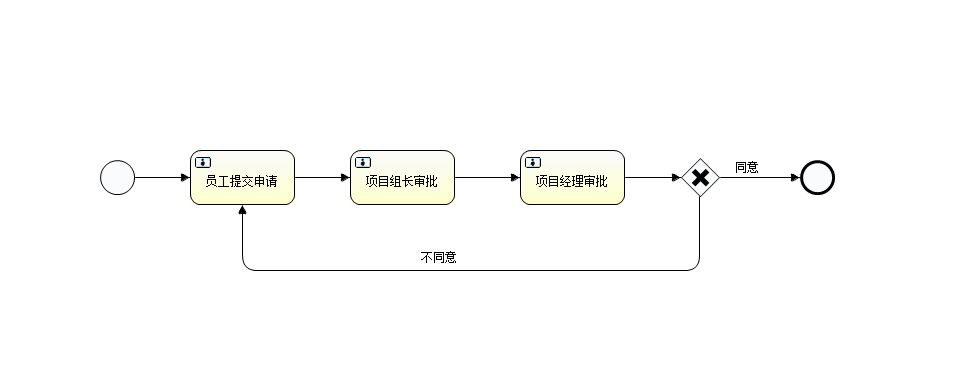
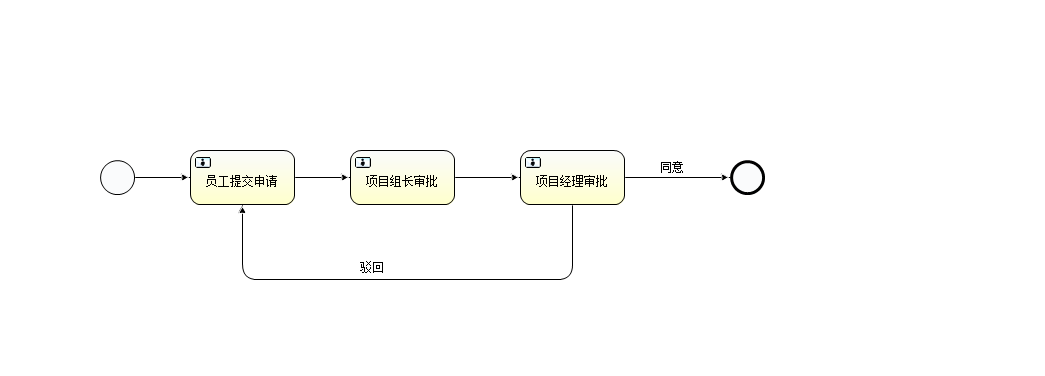
新增流程建模，流程建模引入表达式分支判断

Changed region(s): [[0.0925, 0.3803, 0.8633, 0.5851], [0.2467, 0.6436, 0.7091, 0.7314]]

diff --git a/src/cn/songzx/helloworld/oabiz/wf/test/TestOABizWFService.java b/src/cn/songzx/helloworld/oabiz/wf/test/TestOABizWFService.java
@@ -97,7 +97,7 @@ public class TestOABizWFService {
 				System.out.println("★☆★☆★☆★☆★☆★☆★☆★☆★☆★☆★☆★☆【" + Thread.currentThread().getName() + "】★☆★☆★☆★☆★☆★☆★☆★☆★☆★☆★☆★☆");
 			}
 		};
-		int runnerCount = 200;
+		int runnerCount = 1;
 		// Rnner数组，想当于并发多少个。
 		TestRunnable[] trs = new TestRunnable[runnerCount];
 		for (int i = 0; i < runnerCount; i++) {
@@ -115,17 +115,17 @@ public class TestOABizWFService {
 
 	private Serializable teststartProcessInstanceByKey() {
 		Map<String, Object> variables = new LinkedHashMap<String, Object>();
-		variables.put("dynamic_participant_name", "李向东");
-		variables.put("dynamic_participant_partyid", "1240100700000010624");
-		variables.put("dynamic_participant_code", "1099100400000000001000010000100007000780000800005");
-		variables.put("dynamic_participant_dept_name", "集团客户事业部-保险客户销售服务部");
+		variables.put("dynamic_participant_name", "肖飞雪");
+		variables.put("dynamic_participant_partyid", OABizUtil.generateNineteenUUIDPK());
+		variables.put("dynamic_participant_code", OABizUtil.generateNineteenUUIDPK() + "_" + OABizUtil.generateThirtySixUUIDPK());
+		variables.put("dynamic_participant_dept_name", "集团产品外包部");
 		variables.put("dynamic_participant_dept_code", "10991004000000000010000100001000070007800008");
 		variables.put("business_bill_id", OABizUtil.generateNineteenUUIDPK());
-		variables.put("business_bill_name", "OA系统2017年光缆改造工程合同审计调整");
+		variables.put("business_bill_name", "事假申请-北京回龙观新区光缆改造项目组员工-肖飞雪");
 		variables.put("business_bill_no", "OA" + System.currentTimeMillis());
 		variables.put("business_bill_kind_id", OABizUtil.generateNineteenUUIDPK());
-		variables.put("business_bill_kind_name", "合同审计");
-		String processDefinitionKey = "HQ_OABIZ_CONTRACT_AUDIT_V1.0";
+		variables.put("business_bill_kind_name", "请假单");
+		String processDefinitionKey = "HQ_OABIZ_LEAVE_AUDIT_V1.0";
 		try {
 			oaBizWFService.startProcessInstanceByKey(processDefinitionKey, variables);
 		} catch (Exception e) {
@@ -137,18 +137,19 @@ public class TestOABizWFService {
 	@Test
 	public void testCompleteWorkitemByPK() {
 		Map<String, Object> variables = new LinkedHashMap<String, Object>();
-		variables.put("dynamic_participant_name", "李向东");
-		variables.put("dynamic_participant_partyid", "1240100700000010624");
-		variables.put("dynamic_participant_code", "1099100400000000001000010000100007000780000800005");
-		variables.put("dynamic_participant_dept_name", "集团客户事业部-保险客户销售服务部");
+		variables.put("dynamic_participant_name", "肖飞雪");
+		variables.put("dynamic_participant_partyid", OABizUtil.generateNineteenUUIDPK());
+		variables.put("dynamic_participant_code", OABizUtil.generateNineteenUUIDPK() + "_" + OABizUtil.generateThirtySixUUIDPK());
+		variables.put("dynamic_participant_dept_name", "集团产品外包部");
 		variables.put("dynamic_participant_dept_code", "10991004000000000010000100001000070007800008");
 		variables.put("business_bill_id", OABizUtil.generateNineteenUUIDPK());
-		variables.put("business_bill_name", "OA系统2017年光缆改造工程合同审计调整");
+		variables.put("business_bill_name", "事假申请-北京回龙观新区光缆改造项目组员工-肖飞雪");
 		variables.put("business_bill_no", "OA" + System.currentTimeMillis());
 		variables.put("business_bill_kind_id", OABizUtil.generateNineteenUUIDPK());
-		variables.put("business_bill_kind_name", "合同审计");
+		variables.put("business_bill_kind_name", "请假单");
+		variables.put("is_agreed", true);
 		try {
-			oaBizWFService.completeWorkitemByPK("afc13b62-c05c-11e7-bccc-c85b76a3c17b", variables);
+			oaBizWFService.completeWorkitemByPK("9ebf2888-c1f7-11e7-9532-c85b76a3c17b", variables);
 		} catch (Exception e) {
 			e.printStackTrace();
 		}

diff --git a/src/cn/songzx/helloworld/workflow/biz/test/TestWorkflowBiz.java b/src/cn/songzx/helloworld/workflow/biz/test/TestWorkflowBiz.java
@@ -110,7 +110,7 @@ public class TestWorkflowBiz extends WorkflowBizActBpm518Impl {
 			System.out.println("☆★☆★☆★☆★☆★☆★☆★☆★☆★【" + courseFile + "】☆★☆★☆★☆★☆★☆★☆★☆★☆★");
 			String sourceFilePath = courseFile + "\\bpmn\\cn\\songzx\\helloworld\\oabiz\\bpmn\\HQ";
 			String zipFilePath = courseFile + "\\bpmn\\cn\\songzx\\helloworld\\oabiz\\bpmn\\HQ";
-			String fileName = "HQ_OABIZ_CONTRACT_AUDIT_V1.0";
+			String fileName = "HQ_OABIZ_LEAVE_AUDIT_V1.0";
 			// OABizUtil.fileToZip(sourceFilePath, zipFilePath, fileName);
 			String zipFileName = fileName + ".zip";
 			workflowBiz.deployDiagramByZipFile(zipFilePath + "\\" + zipFileName, zipFileName);

diff --git a/src/cn/songzx/helloworld/workflow/biz/impl/WorkflowBizActBpm518Impl.java b/src/cn/songzx/helloworld/workflow/biz/impl/WorkflowBizActBpm518Impl.java
@@ -162,7 +162,7 @@ public class WorkflowBizActBpm518Impl extends WFInitializingBean implements Work
 	@Override
 	public WFWorkitem completeWorkitemByPK(String workitemId, Map<String, Object> variables) throws Exception {
 		WFWorkitem newWFWorkitem = new WFWorkitem();
-		workflowTaskBiz.complete(workitemId, variables, true);
+		workflowTaskBiz.complete(workitemId, variables);
 		return newWFWorkitem;
 	}
 
